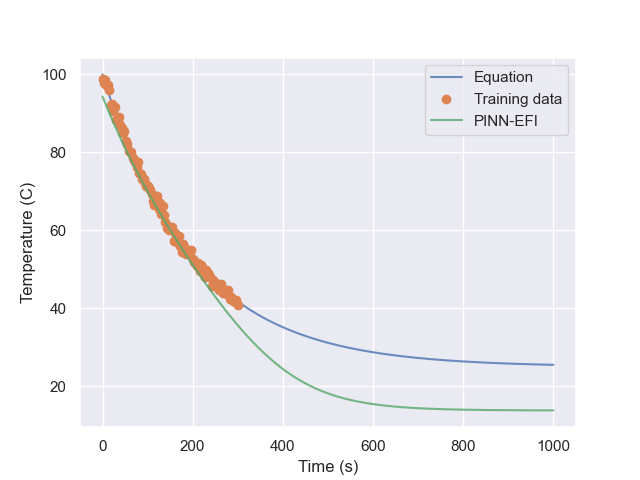
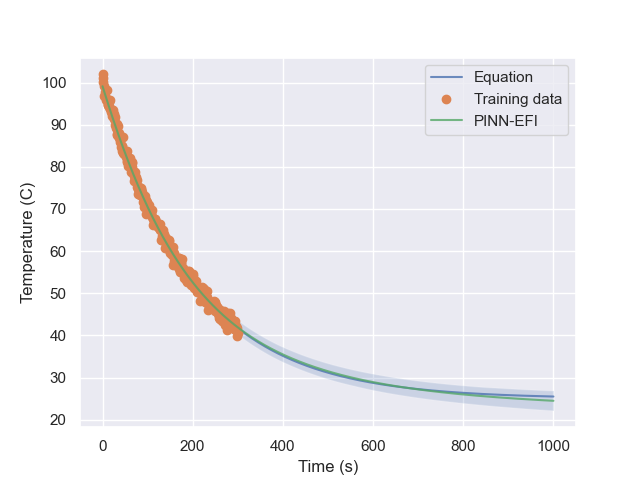
update

diff --git a/PINN/old_code/temp_pred_efi.py b/PINN/old_code/temp_pred_efi.py
@@ -8,11 +8,12 @@ import torch.optim as optim
 import seaborn as sns
 from PINN.common import BaseNetwork, SparseDNN, SGLD
 from PINN.common.net_in_net import EFI_Net
+from collections import deque
 
 DEVICE = torch.device('cuda' if torch.cuda.is_available() else 'cpu')
 
 sns.set_theme()
-# torch.manual_seed(42)
+torch.manual_seed(42)
 
 np.random.seed(10)
 
@@ -64,6 +65,7 @@ class Net(nn.Module):
         self.optimiser = optim.Adam(self.net.parameters(), lr=self.lr)
         
         # self.parameter_size = self.net.parameter_size
+        self.collection = []
         
 
     def _build_encoder(self, encoder_input_dim):
@@ -136,15 +138,28 @@ class Net(nn.Module):
             
             
             ## 3. Loss calculation
-            
-            loss = self.loss(y, self.net(X))
-            # if self.loss2:
-            #     loss += self.loss2_weight * self.loss2(self)
-            losses.append(loss.item())
             if ep % int(self.epochs / 100) == 0:
+                loss = self.loss(y, self.net(X))
+                losses.append(loss.item())
                 print(f"Epoch {ep}/{self.epochs}, loss: {losses[-1]:.2f}")
+                
+            if ep > self.epochs - 1000:
+                y_pred = self.evaluate()
+                self.collection.append(y_pred)
         return losses
     
+    def evaluate(self):
+        x = torch.linspace(0, T_extend, T_extend).view(-1,1)
+        y = self.net(x).detach().flatten()
+        return y
+    
+    def summary(self):
+        y_pred_mat = torch.stack(self.collection, dim=0)
+        y_pred_upper = torch.quantile(y_pred_mat, 0.975, dim=0)
+        y_pred_lower = torch.quantile(y_pred_mat, 0.025, dim=0)
+        y_pred_mean = torch.mean(y_pred_mat, dim=0)
+        return y_pred_upper, y_pred_lower, y_pred_mean
+        
     def latent_loss(self, n_samples, lambda_1, lambda_2, y , tilde_y, thetas, bar_theta, Z):
         loss = lambda_2 * self.loss(y,tilde_y) + lambda_1 * self.loss(thetas,bar_theta.repeat(n_samples,1)) + torch.mean(Z**2)/2
         if self.loss2 is not None:
@@ -158,7 +173,8 @@ class Net(nn.Module):
         if self.loss2 is not None:
             loss += lambda_2 * self.loss2_weight * self.loss2(self.net)
         return loss
-        
+    
+    
             
 
     def predict(self, X):
@@ -170,12 +186,13 @@ class Net(nn.Module):
 Tenv = 25
 T0 = 100
 R = 0.005
-times = torch.linspace(0, 1000, 1000)
+T_extend = 1000
+times = torch.linspace(0, T_extend, T_extend)
 eq = functools.partial(cooling_law, Tenv=Tenv, T0=T0, R=R)
 temps = eq(times)
 
 # Make training data
-n_samples = 100
+n_samples = 300
 obs_sd = 1
 t = torch.linspace(0, 300, n_samples).reshape(n_samples, -1)
 T = eq(t) +  obs_sd * torch.randn(n_samples).reshape(n_samples, -1)
@@ -183,7 +200,7 @@ T = eq(t) +  obs_sd * torch.randn(n_samples).reshape(n_samples, -1)
 
 
 def physics_loss(model: torch.nn.Module):
-    ts = torch.linspace(0, 1000, steps=1000,).view(-1,1).requires_grad_(True)
+    ts = torch.linspace(0, T_extend, steps=T_extend,).view(-1,1).requires_grad_(True)
     temps = model(ts)
     # print(temps)
     # raise
@@ -194,7 +211,7 @@ def physics_loss(model: torch.nn.Module):
 
 # net_arch = [100, 100, 100, 100]
 net_arch = [15, 15]
-net = Net(1,1, net_arch, loss2=physics_loss, epochs=10000, loss2_weight=1, lr=1e-4, sgld_lr=1e-4)
+net = Net(1,1, net_arch, loss2=physics_loss, epochs=10000, loss2_weight=5, lr=1e-5, sgld_lr=1e-4)
 
 
 losses = net.fit(t, T)
@@ -202,10 +219,12 @@ losses = net.fit(t, T)
 # plt.yscale('log')
 
 preds = net.predict(times.reshape(-1,1))
+preds_upper, preds_lower, preds_mean = net.summary()
 
 plt.plot(times, temps, alpha=0.8)
 plt.plot(t, T, 'o')
-plt.plot(times, preds, alpha=0.8)
+plt.plot(times, preds_mean, alpha=0.8)
+plt.fill_between(times, preds_upper, preds_lower, alpha=0.2)
 plt.legend(labels=['Equation','Training data', 'PINN-EFI'])
 plt.ylabel('Temperature (C)')
 plt.xlabel('Time (s)')

diff --git a/PINN/common/net_in_net.py b/PINN/common/net_in_net.py
@@ -52,7 +52,7 @@ class NetG(nn.Module):
         return {'w1': w1, 'b1': b1, 'w2': w2, 'b2': b2}
 
 class EFI_Net(nn.Module):
-    def __init__(self, input_dim=1, output_dim=1, hidden_dim=15, activation=nn.ReLU, prior_sd=0.01, sparse_sd=0.001 , sparsity=0.5):
+    def __init__(self, input_dim=1, output_dim=1, hidden_dim=15, activation=nn.ReLU, prior_sd=0.1, sparse_sd=0.001 , sparsity=1.0):
         super(EFI_Net, self).__init__()
         self.input_dim = input_dim
         self.output_dim = output_dim
@@ -141,10 +141,13 @@ class EncoderNetwork(nn.Module):
         loss4 = self.loss(out4, out4.mean(dim=0).repeat(out4.shape[0], 1))
         loss5 = self.loss(out5, out5.mean(dim=0).repeat(out5.shape[0], 1, 1))
         loss6 = self.loss(out6, out6.mean(dim=0).repeat(out6.shape[0], 1))
-        
-        l2_loss = out1.mean(dim=0).pow(2).sum() + out2.mean(dim=0).pow(2).sum() + out3.mean(dim=0).pow(2).sum() + out4.mean(dim=0).pow(2).sum() + out5.mean(dim=0).pow(2).sum() + out6.mean(dim=0).pow(2).sum()
-        
-        return (loss1 + loss2 + loss3 + loss4 + loss5 + loss6) / self.N + l2_loss
+
+        sparse_loss = self.sparsify(out1.mean(dim=0)) + self.sparsify(out2) + self.sparsify(out3.mean(dim=0)) + self.sparsify(out4) + self.sparsify(out5.mean(dim=0)) + self.sparsify(out6)
+        return (loss1 + loss2 + loss3 + loss4 + loss5 + loss6) / self.N + sparse_loss
+    
+    def sparsify(self, x):
+        masked_loss = torch.where(x.abs() > 0.1, torch.zeros_like(x.abs()), x.abs())
+        return masked_loss.sum()
     
     def forward_mean(self, x):
         x = self.activation_fn(self.fc1(x))  # [batch_size, hidden_dim]

diff --git a/PINN/old_code/temp_pred.py b/PINN/old_code/temp_pred.py
@@ -92,7 +92,7 @@ eq = functools.partial(cooling_law, Tenv=Tenv, T0=T0, R=R)
 temps = eq(times)
 
 # Make training data
-n_samples = 500
+n_samples = 300
 t = torch.linspace(0, 300, n_samples).reshape(n_samples, -1)
 T = eq(t) +  torch.randn(n_samples).reshape(n_samples, -1)
 
@@ -111,7 +111,7 @@ def physics_loss(model: torch.nn.Module):
     return torch.mean(pde**2)
 
 net_arch = [15, 15]
-net = Net(1,1, net_arch, loss2=physics_loss, epochs=10000, loss2_weight=1, lr=1e-3).to(DEVICE)
+net = Net(1,1, net_arch, loss2=physics_loss, epochs=10000, loss2_weight=5, lr=1e-3).to(DEVICE)
 # net = Net(1,1, net_arch, loss2=None, epochs=30000, loss2_weight=1, lr=1e-3).to(DEVICE)
 
 losses = net.fit(t, T)
